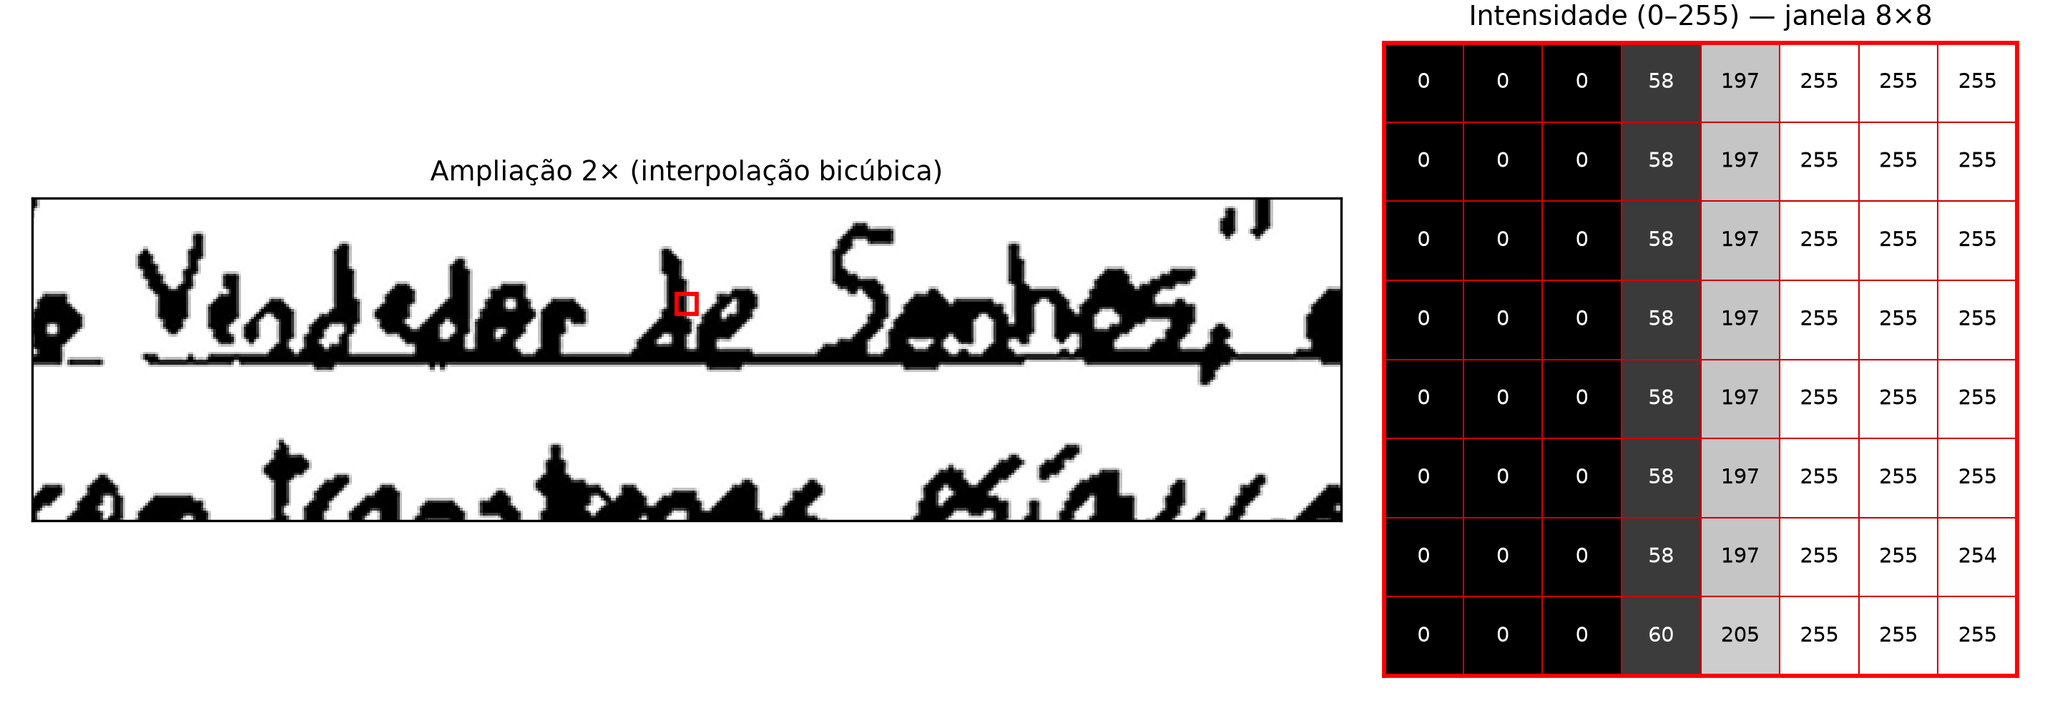
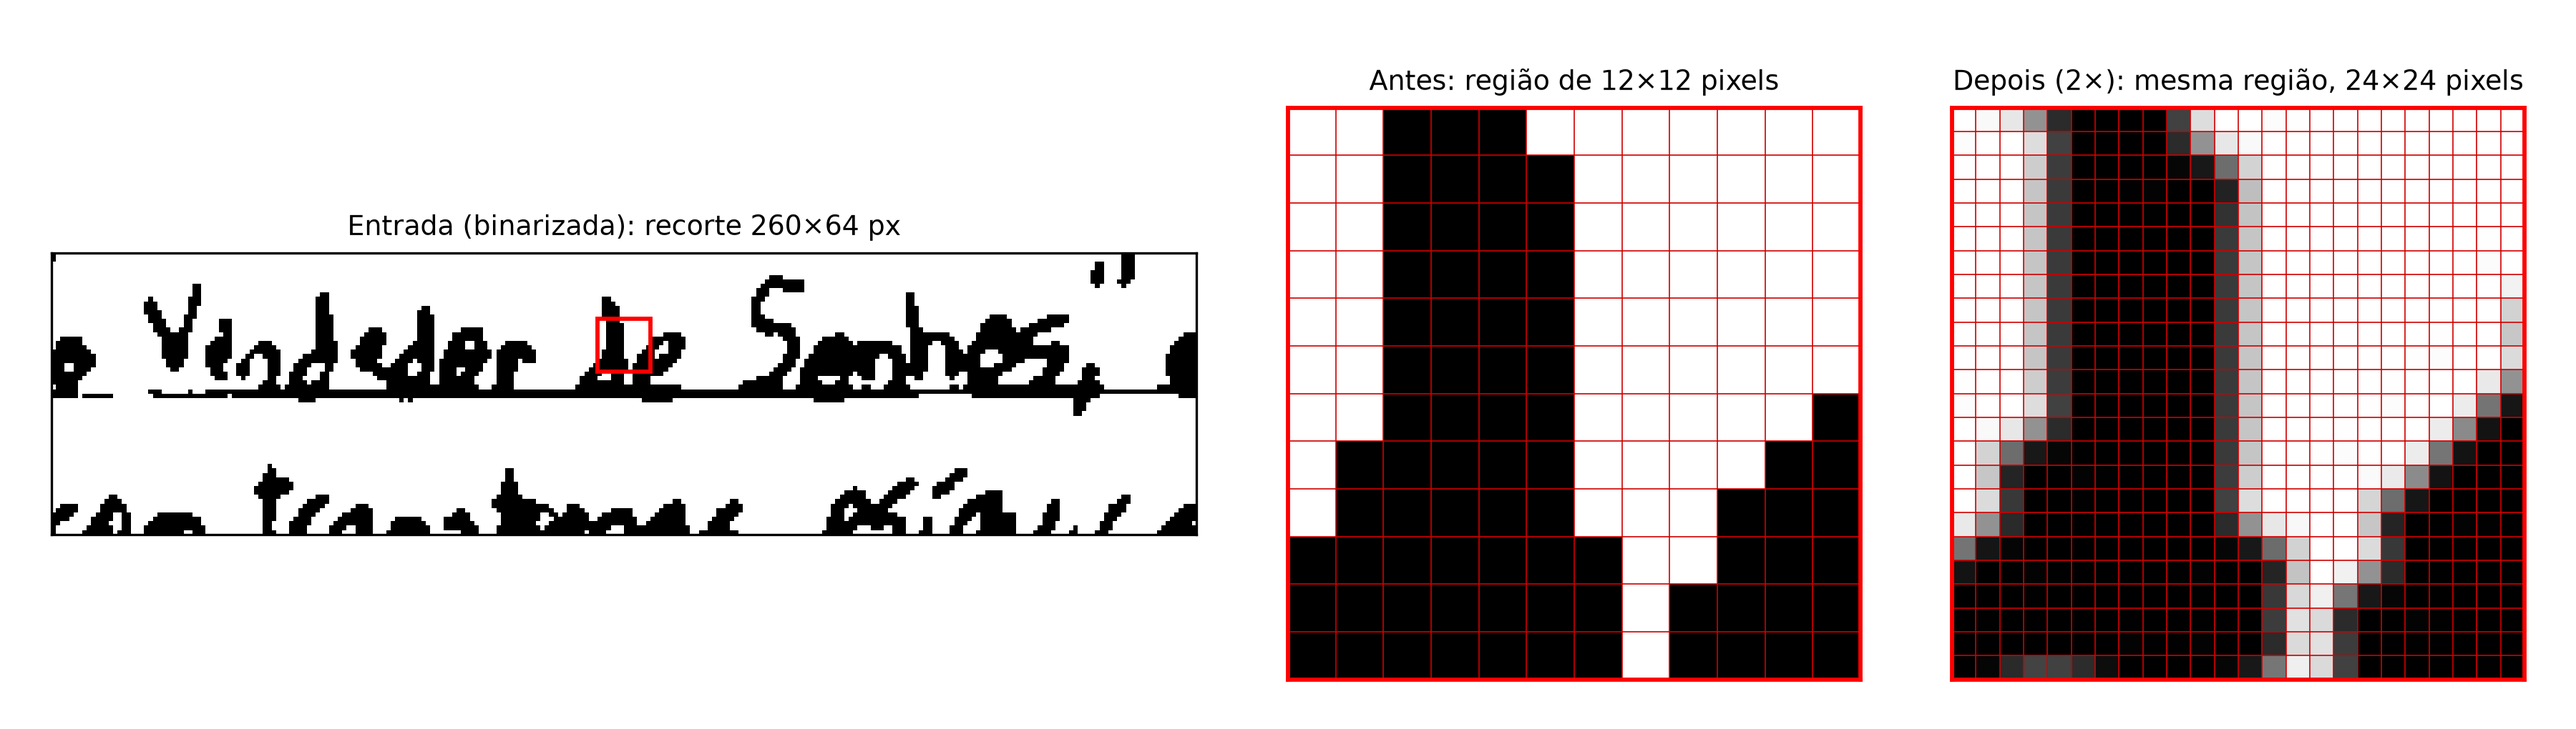
Sincronizado do repositório privado em 54782d9

diff --git a/README.md b/README.md
@@ -22,7 +22,7 @@ que os resultados podem ser conferidos sem executá-lo.
 | NB-09 | Dados sequenciais: RNN, LSTM e GRU | Cap. 2 (didático) |
 | NB-10 | CTC e CRNN | Cap. 2 (didático) |
 | NB-11 | Atenção, Transformers e modelos de visão e linguagem | Cap. 2 (didático) |
-| NB-12 | Correção de redações por modelos de linguagem com a matriz do ENEM | Cap. 5 |
+| NB-12 | Correção de redações por modelos de linguagem com a matriz do ENEM | Cap. 6 |
 
 - `notebooks/`: os notebooks executados.
 - `saidas/NB-xx/`: figuras, tabelas e arquivos de resultado de cada notebook, com o `manifest.json` da execução
